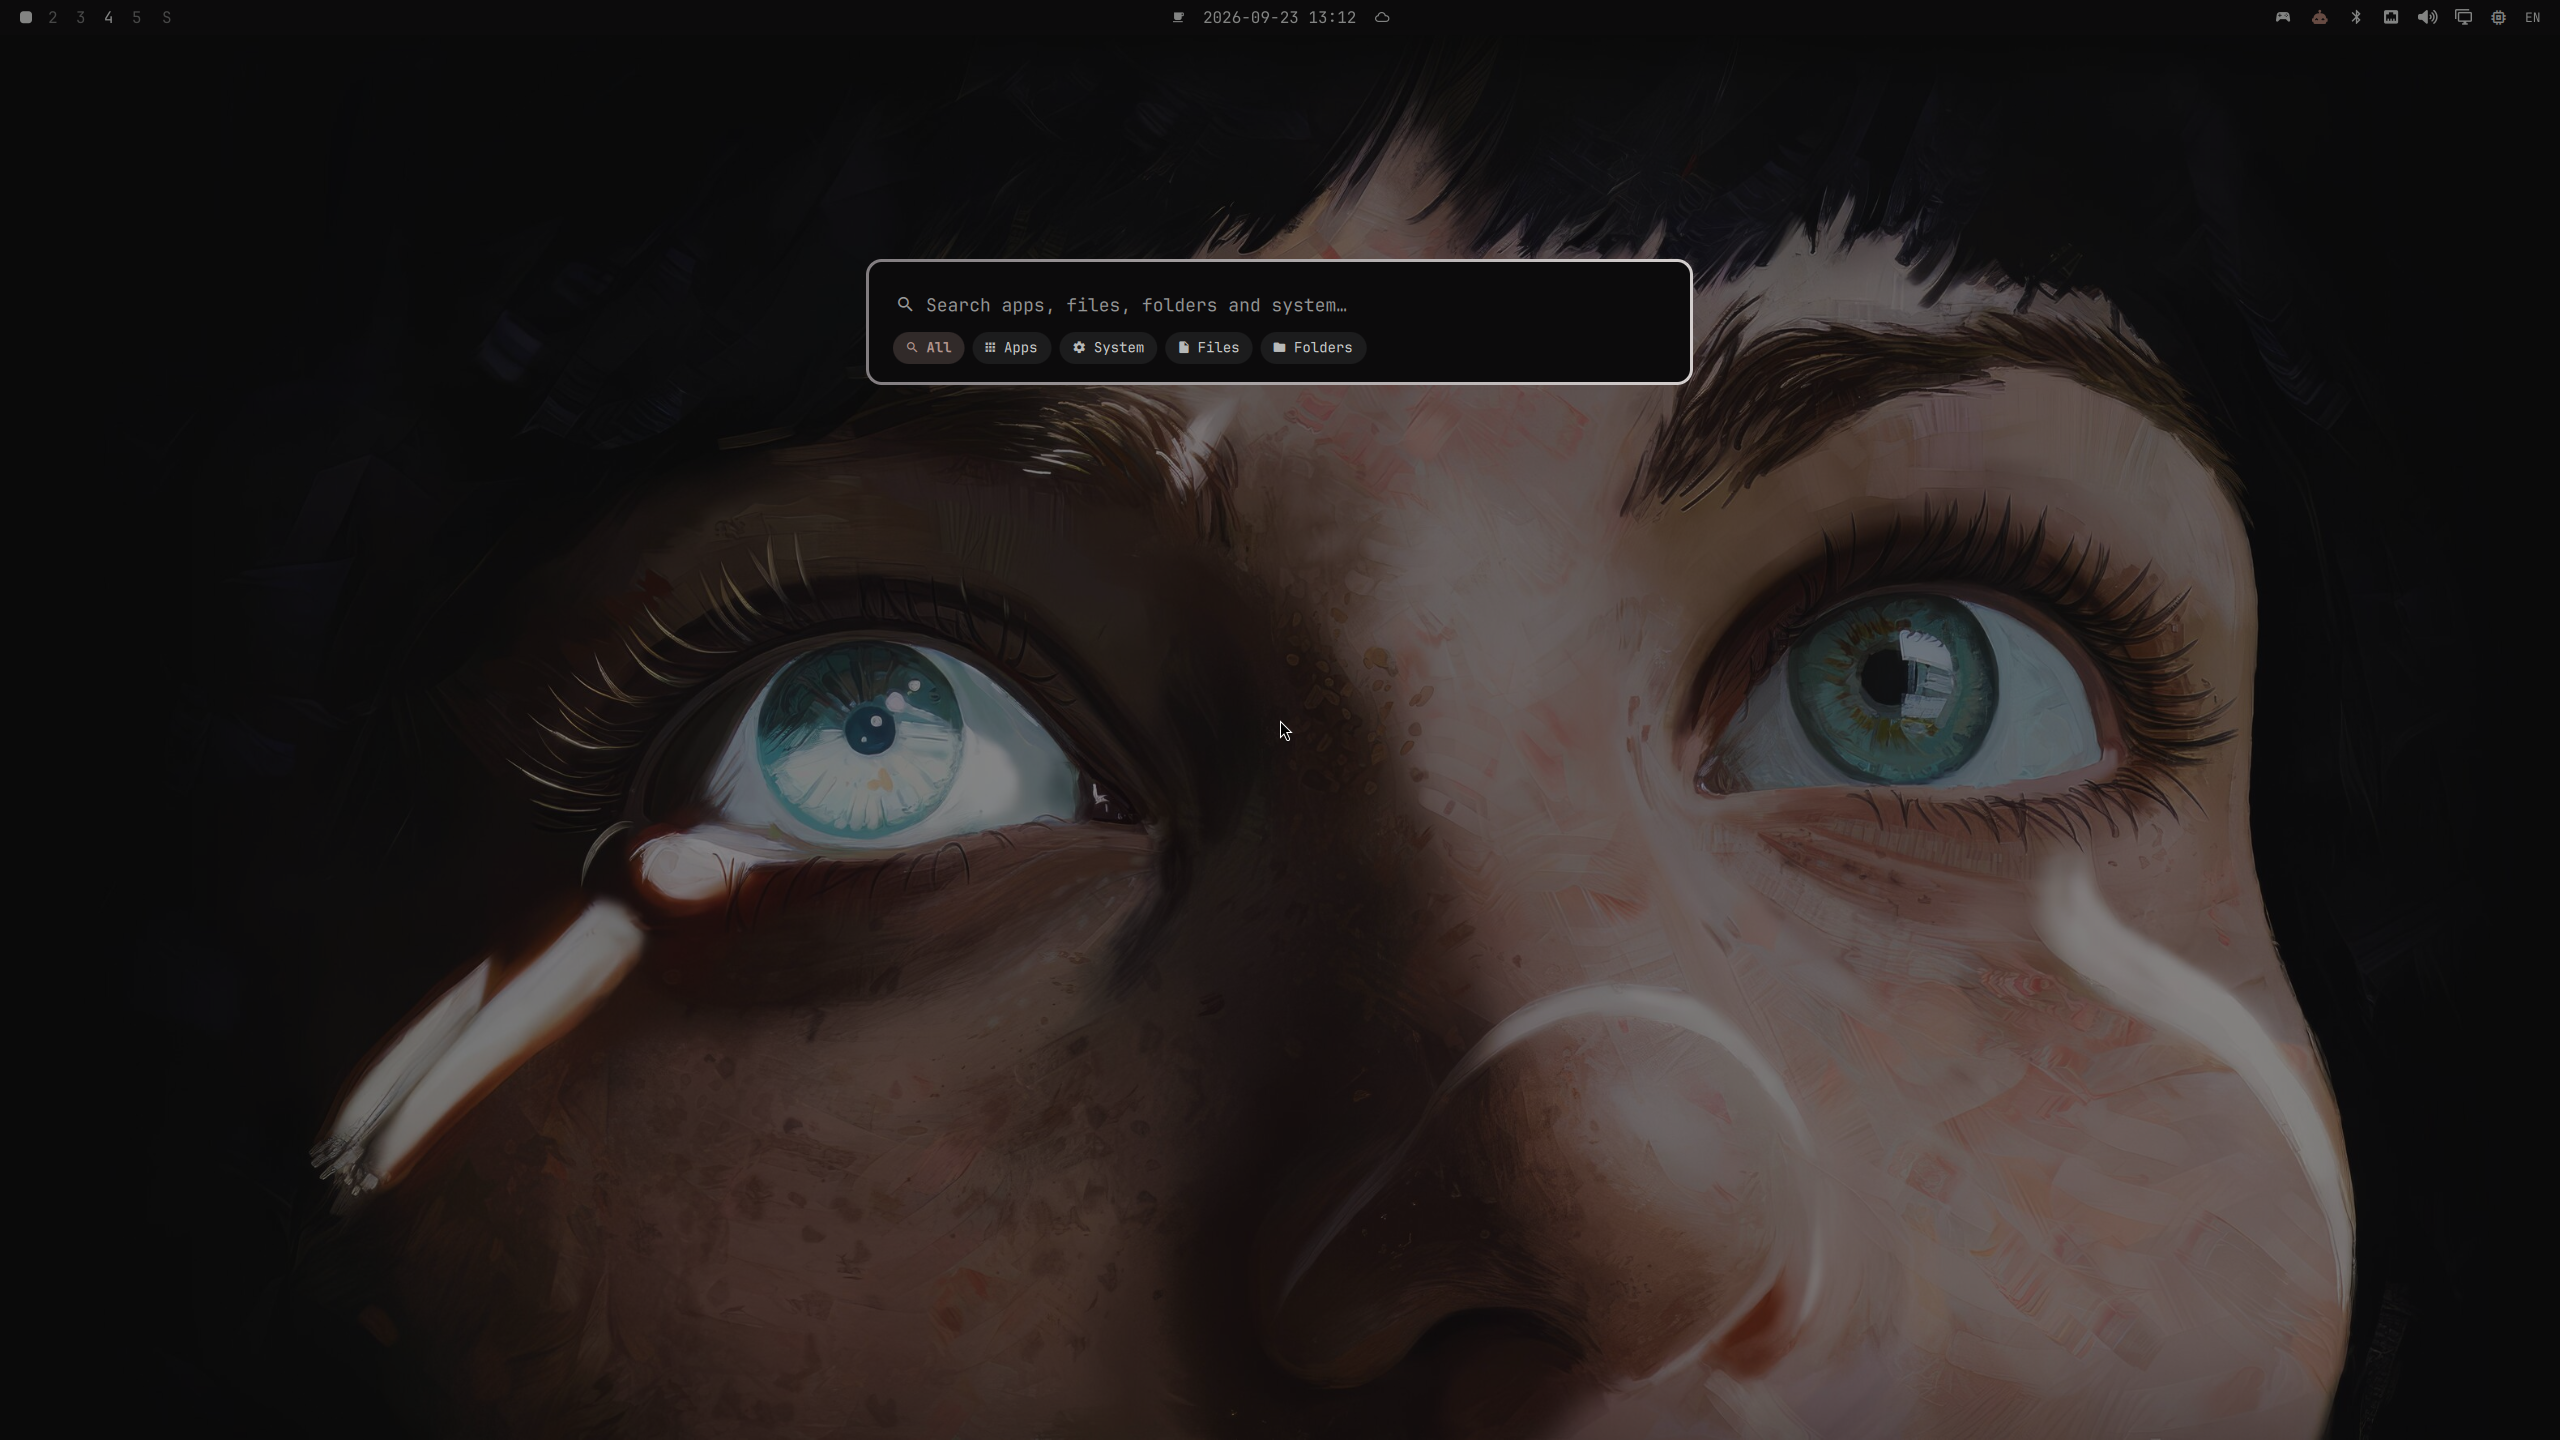
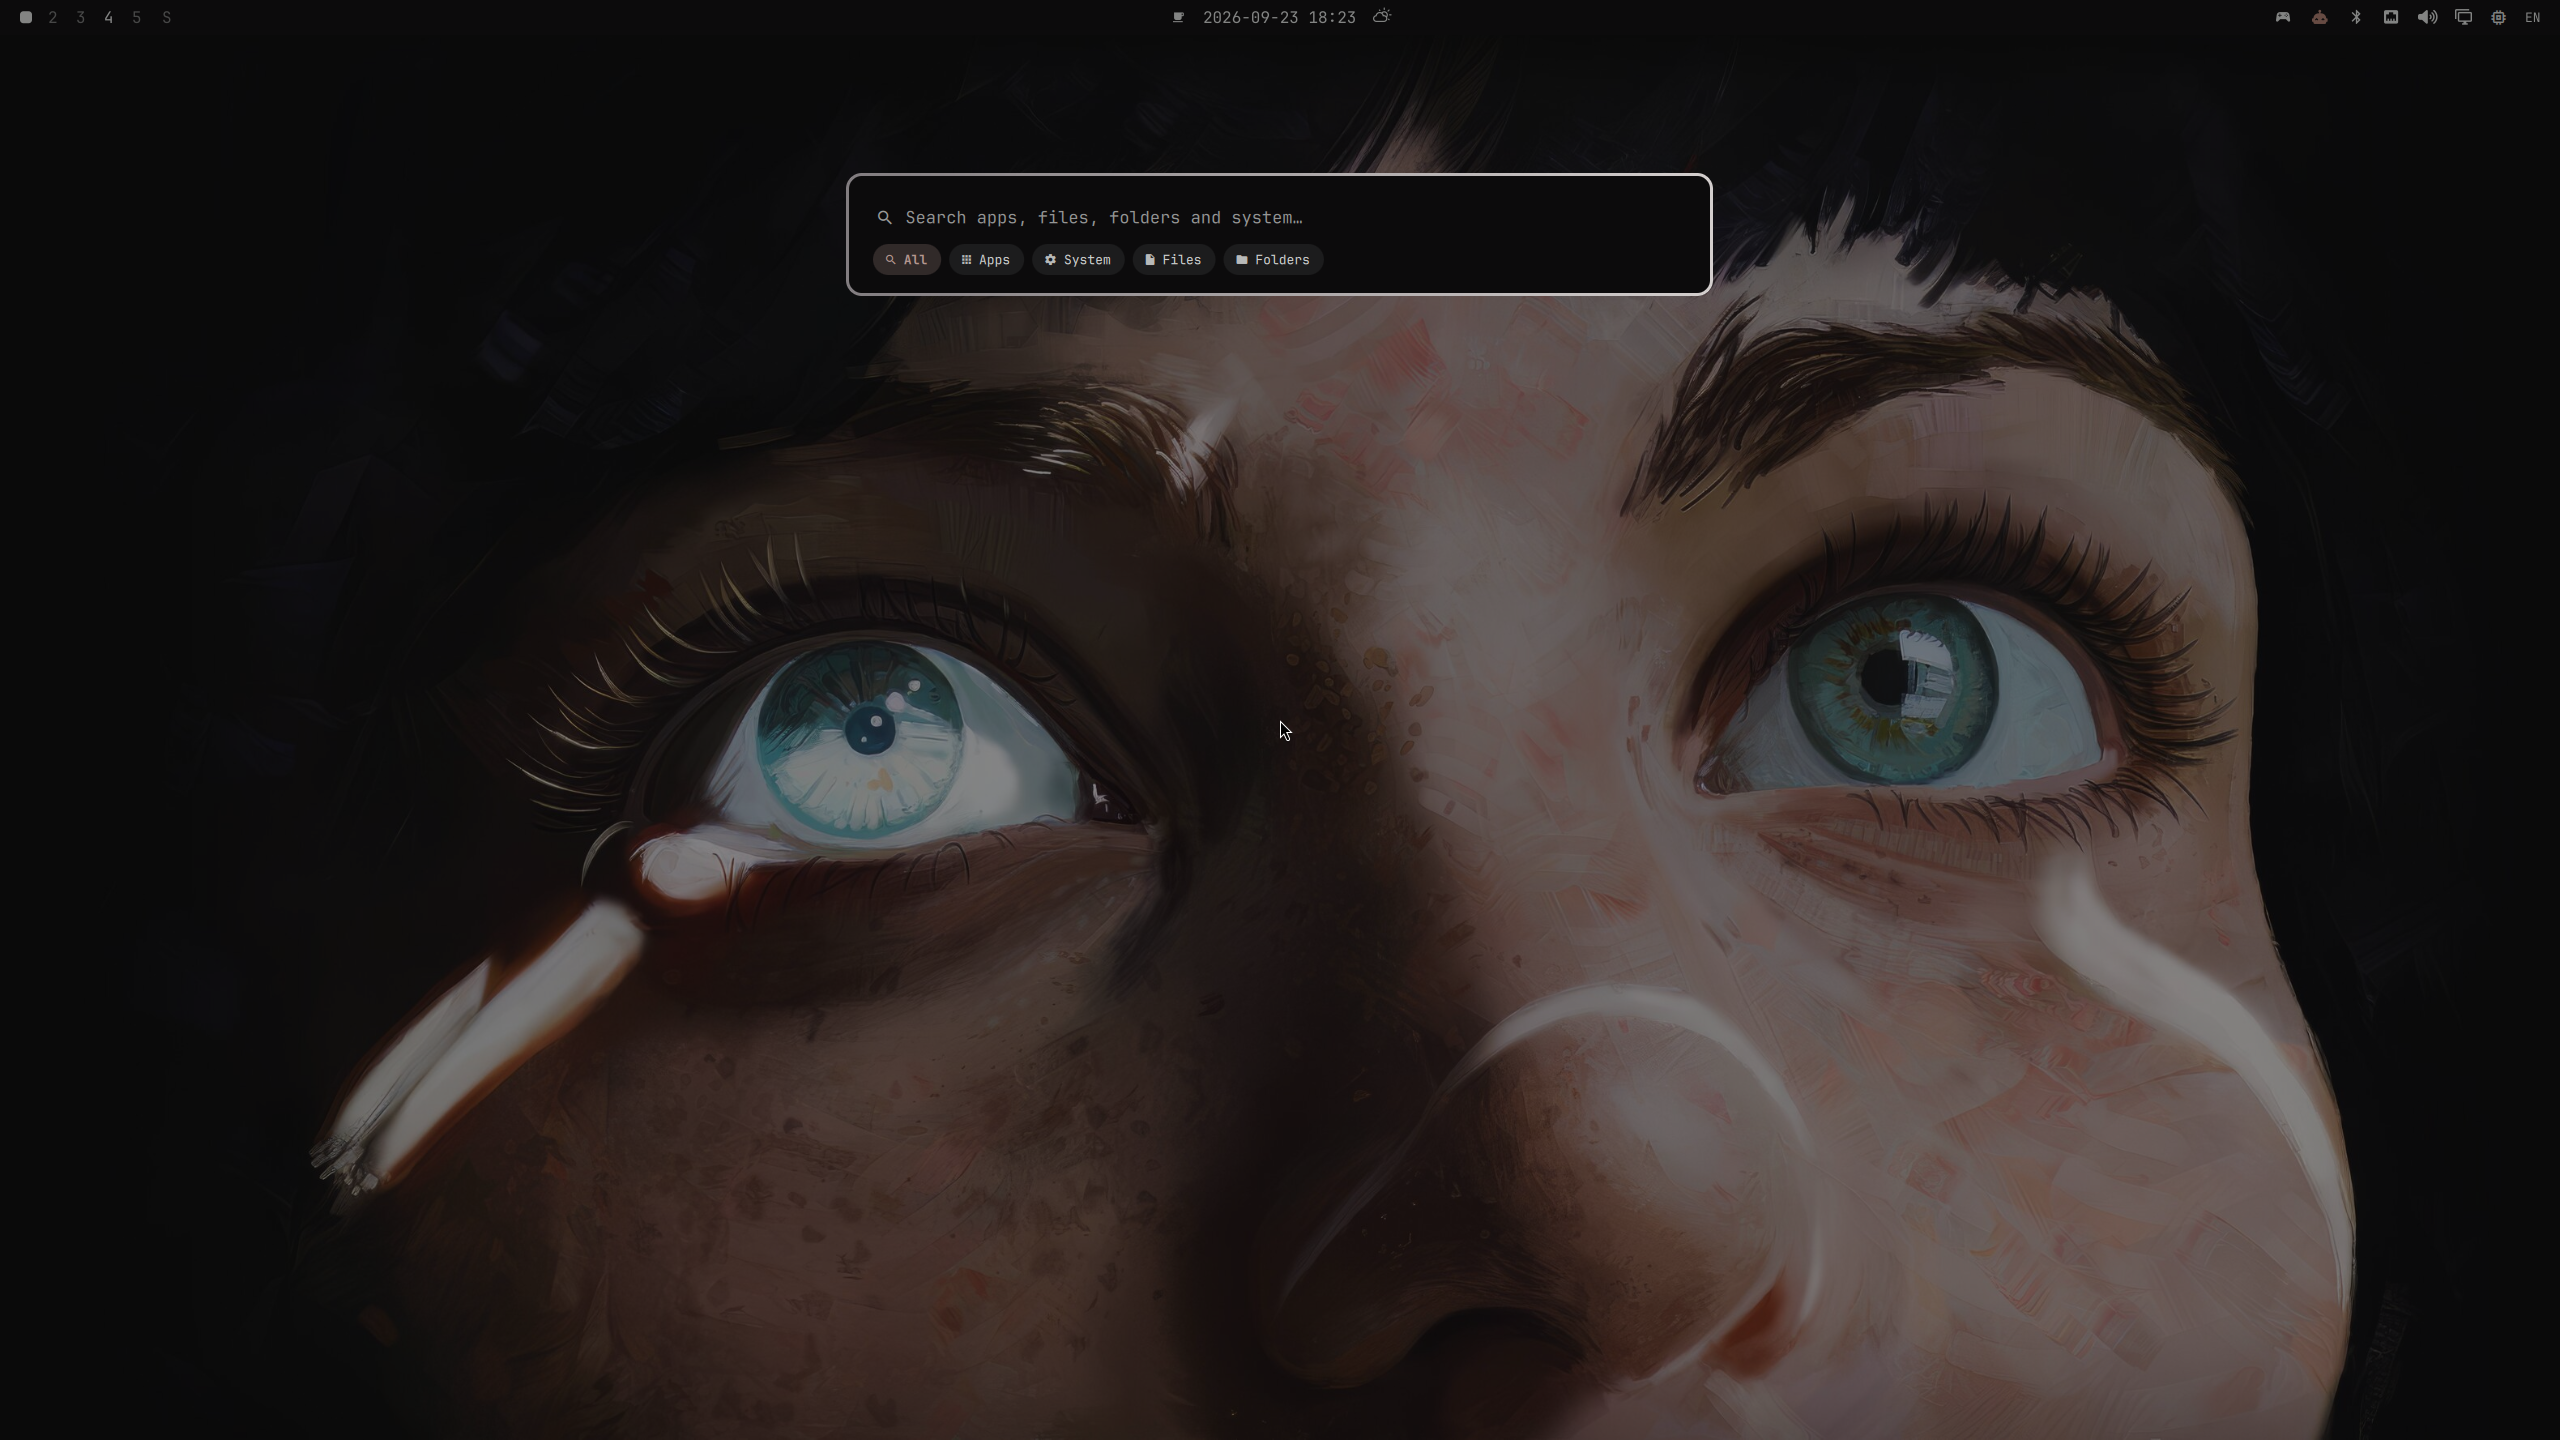
Refresh launcher documentation and media

Changed region(s): [[0.3438, 0.0938, 0.6875, 0.2812]]

diff --git a/README.md b/README.md
@@ -10,7 +10,7 @@ instant answers and AI in one keyboard-driven menu.
 
 ![Omni application grid](preview.png)
 
-https://github.com/user-attachments/assets/4e7ee62e-3edc-4654-ad43-d1ea2d626caa
+https://github.com/user-attachments/assets/cc1d0344-c502-4925-899c-86295081a55e
 
 [More screenshots](docs/media/README.md) ·
 [Built-in answer reference](docs/answers.md)
@@ -26,9 +26,17 @@ it. Esc goes back or closes the menu according to the current view.
 | --- | --- |
 | **All** | Answers followed by Apps, System, Files and Folders sections, up to five results per section |
 | **Apps** | Installed applications; Ctrl+G switches between list and grid and saves the choice |
-| **System** | Omarchy actions and submenus in two panes: categories (Learn, Trigger, Style, Setup…) on the left, the highlighted one's items on the right. ↑↓ browse, →/Enter open, ← back. Typing moves the tree to the best matching entry (Ctrl+↑↓ for the next match); words may name the path, so `update omarchy` lands on Update › Omarchy; queries that match no entry show answers such as the calculator |
+| **System** | Omarchy actions in two panes: categories on the left, their items on the right |
 | **Files** | File name search under your home directory, with type, sort and result-limit controls |
 | **Folders** | Folder search, including a separate System folders filter for configuration directories |
+
+The System tab keeps the category list visible while you browse its items.
+Use Up/Down to select, Right or Enter to open, and Left to go back. Typing
+searches the menu tree; a query can name the whole path, so `update omarchy`
+selects Update › Omarchy. Ctrl+Up/Down jumps between matches. If no system
+entry matches, the tab shows instant answers such as the calculator.
+
+![System categories and actions](docs/media/system.png)
 
 `Super+Alt+Space` opens Apps directly. Existing routes such as
 `omarchy menu summon style.theme` open the corresponding System submenu.
@@ -88,6 +96,12 @@ shows that active tab even when disabled. Switching away hides it again.
 Unknown settings are preserved when Ctrl+G saves the view. Invalid JSON is left
 untouched; fix its syntax and reopen the menu.
 
+## Screenshots
+
+[Browse the gallery](docs/media/README.md) for the All search, file results,
+System search, calculator and AI agent selector. The demo above shows tab switching, System search, file search, the
+calculator and the AI agent selector.
+
 ## Instant answers
 
 | Example | Result |
@@ -114,6 +128,8 @@ Type `ai <question>` and press Enter to submit. The answer streams into the
 menu; Ctrl+C copies it, arrow/Page keys scroll, and Esc cancels or closes.
 After an answer is ready, Enter continues the conversation in a terminal.
 Typing alone sends no request.
+
+![AI agent selector](docs/media/ai.png)
 
 In AI mode the tab bar lists the installed agents instead of the tabs
 (Claude, Codex, Pi, Antigravity — whichever CLIs are on `PATH`). One is always

diff --git a/docs/media/README.md b/docs/media/README.md
@@ -1,8 +1,8 @@
 # Menu gallery
 
-https://github.com/user-attachments/assets/4e7ee62e-3edc-4654-ad43-d1ea2d626caa
+https://github.com/user-attachments/assets/cc1d0344-c502-4925-899c-86295081a55e
 
-The recording shows tabs, app grid/list, calculator, file search and unit conversion.
+The recording shows tab switching, System search, file search, the calculator and the AI agent selector.
 
 ## Compact launcher
 
@@ -12,14 +12,26 @@ The recording shows tabs, app grid/list, calculator, file search and unit conver
 
 ![Apps in grid view](../../preview.png)
 
+## All search
+
+![Combined System, Files and Folders results](all.png)
+
 ## System actions
 
-![System menu](system.png)
+![Categories and their actions side by side](system.png)
+
+## System search
+
+![Update Omarchy selected in the menu tree](system-search.png)
+
+## File search
+
+![Search result for AnswerEngine.qml](files.png)
 
 ## Calculator
 
 ![Calculator expression and result](calculator.png)
 
-## File search
+## AI agent selector
 
-![Menu.qml file search](files.png)
+![Installed agents and a question waiting for Enter](ai.png)
